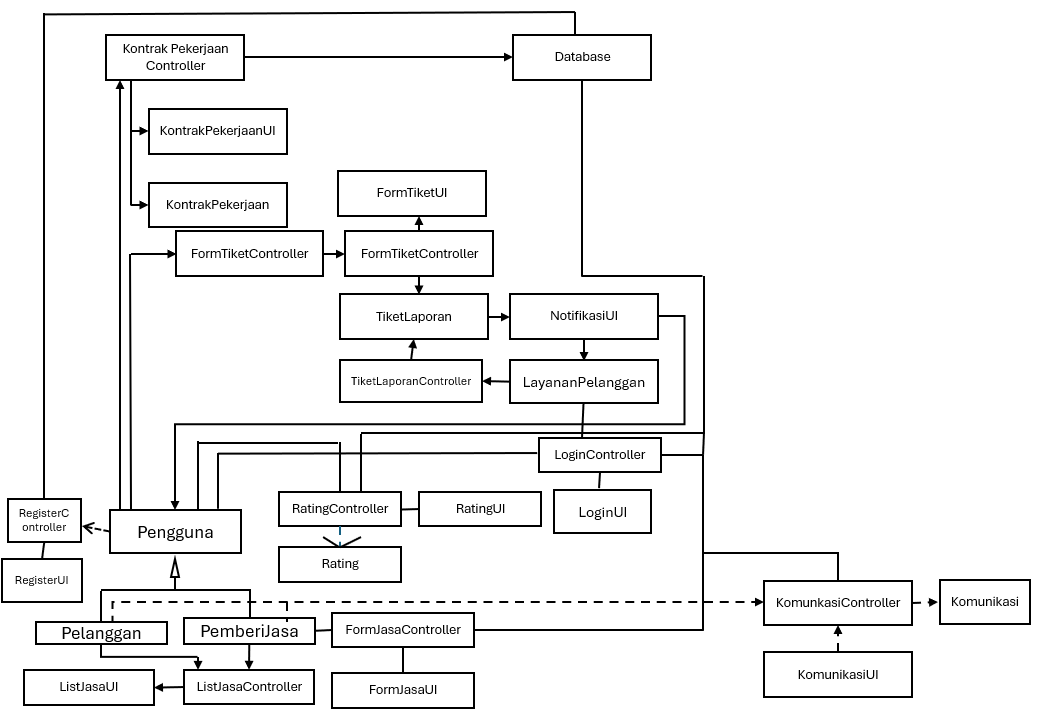
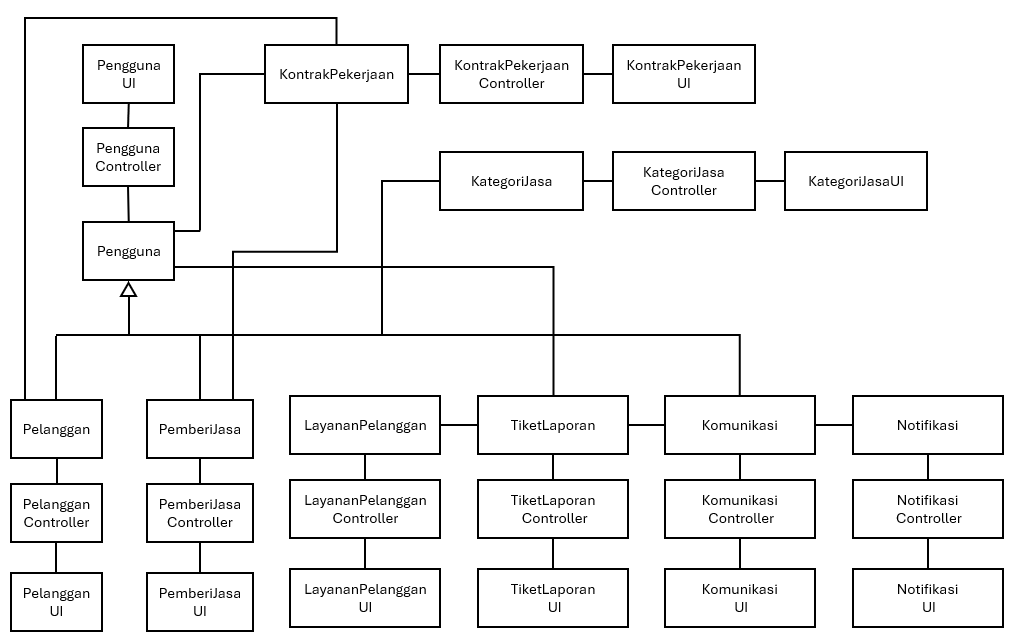
doc: added finishing touches

diff --git a/docs/M5/K03_G09_SKPL.md b/docs/M5/K03_G09_SKPL.md
@@ -1026,16 +1026,38 @@ Salin ulang diagram kelas untuk setiap use case dari BAB 4.2 dokumen *Class Diag
 
 | ID Kelas | Nama Kelas | Atribut | Metode/Operasi |
 | :--- | :--- | :--- | :--- |
-| *C01* | *Pelanggan* | *idPelanggan, nama, email* | *lihatRiwayatPesanan()* |
-| *C02* | *Pesanan* | *idPesanan, total, status* | *hitungTotal(), perbaruiStatus()* |
-| *C03* | *Keranjang* | *daftarItem* | *tambahItem(), checkout()* |
-| *C04* | *MetodePembayaran* | *-* | *kirimKePaymentGatewayDummy()* |
-| *C05* | *Kartu* | *nomorKartu, masaBerlaku* | *kirimKePaymentGatewayDummy()* |
-| *C06* | *EWallet* | *saldo, idAkun* | *cekSaldo(), kirimKePaymentGatewayDummy()* |
-| *C07* | *RiwayatTransaksi* | *idTransaksi, waktu, status* | *catatTransaksi(), tampilkanNotifikasi()* |
-| *...* | *...* | *...* | *...* |
+| :--- | :--- | :--- | :--- |
+| **C01** | Pengguna | - idPengguna<br>- nomorTelpon<br>- email<br>- namaPengguna<br>- username<br>- password<br>- akumulasiRating<br>- riwayatRating | + getId()<br>+ getNomor()<br>+ getEmail()<br>+ getNama()<br>+ setNomor()<br>+ setEmail()<br>+ setNama()<br>+ getAkumulasiRating()<br>+ getRiwayatRating()<br>+ addNewRatingRiwayat()<br>+ konfirmasiPekerjaan()<br>+ laporkanMasalah() |
+| **C02** | PenggunaUI | - | + showDaftarPekerjaanSelesai()<br>+ pressBeriRating()<br>+ tampilkanHalamanRegistrasi()<br>+ pressRegister()<br>+ pressBantuanLayanan() |
+| **C03** | PenggunaController | - | + triggerRating()<br>- verifikasiStatusPekerjaan()<br>+ validasiInfoRegistrasi()<br>+ requestKontrakPekerjaan()<br>+ requestFormTiket() |
+| **C04** | PemberiJasa | - jenisJasa<br>- idKategoriJasa | + getIDPemberiJasa()<br>+ getIDKategoriJasa()<br>+ setIDKategoriJasa()<br>+ savePemberiJasa()<br>+ makePemberiJasa()<br>+ cekInfoLogin()<br>+ laporkanMasalah() |
+| **C05** | PemberiJasaUI | - | + tunjukkanHalamanLogin()<br>+ pressLogin()<br>+ pindahHalaman()<br>+ pressPemberiJasa()<br>+ pressChat()<br>+ showPemberiJasaMap()<br>+ pressBantuanLayanan() |
+| **C06** | PemberiJasaController | - | + validatePemberiJasa()<br>+ validasiInput()<br>+ triggerQueryLogin()<br>+ showPemberiJasaFromKategori()<br>+ choosePemberiJasa()<br>+ requestFormTiket() |
+| **C07** | Pelanggan | - | + makePelanggan()<br>+ cekInfoLogin() |
+| **C08** | PelangganUI | - | + tunjukkanHalamanLogin()<br>+ pressLogin()<br>+ pindahHalaman() |
+| **C09** | PelangganController | - | + validasiInput()<br>+ triggerQueryLogin() |
+| **C10** | LayananPelanggan | - idLayananPelanggan | + makeLayananPelanggan()<br>+ cekInfoLogin()<br>+ responTiket() |
+| **C11** | LayananPelangganUI | - | + tunjukkanHalamanLogin()<br>+ pressLogin()<br>+ pindahHalaman()<br>+ showDaftarTiket()<br>+ pressBukaTiket() |
+| **C12** | LayananPelangganController | - | + validasiInput()<br>+ triggerQueryLogin()<br>+ requestTiketLaporan()<br>+ teruskanBalasan() |
+| **C13** | KategoriJasa | - idKategoriJasa<br>- jenisJasa<br>- tarif<br>- jamKerja<br>- daerahKerja | + getIDKategoriJasa()<br>+ getJenisJasa()<br>+ getTarif()<br>+ getJamKerja()<br>+ getDaerahKerja()<br>+ setTarif()<br>+ setJamKerja()<br>+ setDaerahKerja()<br>+ saveKategoriJasa() |
+| **C14** | KategoriJasaUI | - | + pressOpenKategoriJasa()<br>+ showFormKategoriJasa()<br>+ pressSubmitKategoriJasa()<br>+ inputDataKategoriJasa()<br>+ showKategoriJasa()<br>+ pressKategoriJasa()<br>+ pressMenu() |
+| **C15** | KategoriJasaController | - | + validateKategoriJasa()<br>+ submitFormKategoriJasa()<br>+ filterKategoriJasa() |
+| **C16** | KontrakPekerjaan | - idKontrakPekerjaan<br>- detailPekerjaan<br>- persetujuanHarga<br>- statusPekerjaan<br>- statusKontrak | + getIdPelanggan()<br>+ getIdPemberiJasa()<br>+ setHarga()<br>+ setDetailPekerjaan()<br>+ setIdKontrakPekerjaan()<br>+ setStatusPekerjaan()<br>+ getDetailPekerjaan() |
+| **C17** | KontrakPekerjaanUI | - | + showKontrakForm()<br>+ inputDetailPekerjaan()<br>+ klikKirimKontrak()<br>+ showDetailPekerjaan()<br>+ klikPekerjaanSelesai() |
+| **C18** | KontrakPekerjaanController | - | + validasiInput()<br>+ saveKontrak() |
+| **C19** | Komunikasi | - idChat<br>- idPengguna<br>- isiPesan<br>- waktuTerkirim<br>- isChatTerbaca<br>- statusChat<br>- durasiChat | + simpanPesan()<br>+ getPesan()<br>+ getIDChat()<br>+ getChatHistory()<br>+ saveChat() |
+| **C20** | KomunikasiUI | - | + showChat()<br>+ pressKirimBalasan()<br>+ showChatChannel()<br>+ inputMessage()<br>+ pressSendChat() |
+| **C21** | KomunikasiController | - | + kirimPesan()<br>+ getRiwayatChat()<br>+ loadChat()<br>+ startChat() |
+| **C22** | TiketLaporan | - idTiket<br>- idPengguna<br>- jenisTiket<br>- keteranganTiket<br>- tanggalTiket<br>- statusTiket | + getDetailTiket()<br>+ updateStatusTiket() |
+| **C23** | TiketLaporanUI | - | + showDetailTiket()<br>+ pressBalasTiket() |
+| **C24** | TiketLaporanController | - | + getTiketLaporan()<br>+ balasTiket()<br>+ tutupTiket() |
+| **C25** | Rating | - idRating<br>- idPenggunaPemberi<br>- idPenggunaPenerima<br>- idKontrakPekerjaan<br>- nilaiRating<br>- tanggalRating | + getIdPemberi()<br>+ getIdPenerima()<br>+ getIdKontrakPekerjaan()<br>+ getIdRating()<br>+ getRatingValue()<br>+ updateRatingPengguna() |
+| **C26** | RatingUI | - | + tampilkanRatingForm()<br>+ tampilkanHasilRating()<br>+ pressJumlahBintang()<br>+ pressSubmitRating()<br>+ pressBatalRating() |
+| **C27** | RatingController | - | + saveRating()<br>+ validateRatingValue() |
+| **C28** | Notifikasi | - idNotifikasi<br>- idPenerima<br>- isiNotifikasi<br>- waktuNotifikasi<br>- statusBaca | + getIsiNotifikasi()<br>+ tandaiTerbaca()<br>+ getLastMessage() |
+| **C29** | NotifikasiUI | - | - playSound()<br>- stopSound()<br>+ showNotifikasi()<br>+ closeNotifikasi()<br>+ pressNotifikasi() |
+| **C30** | NotifikasiController | - | + buatNotifikasi()<br>+ kirimNotifikasi() |
 
----
 
 # BAB 6: Traceability
 
